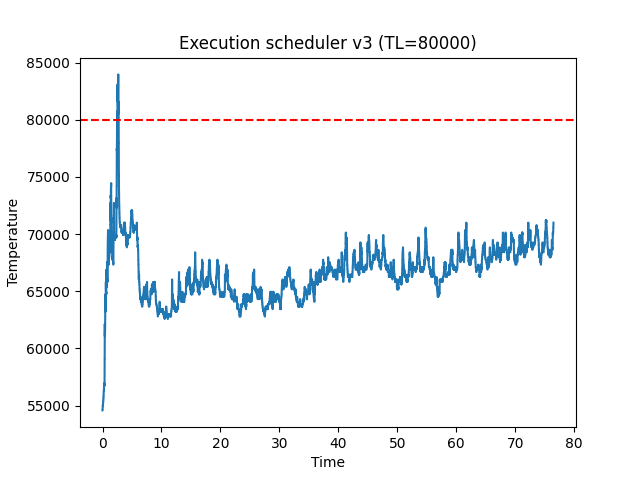
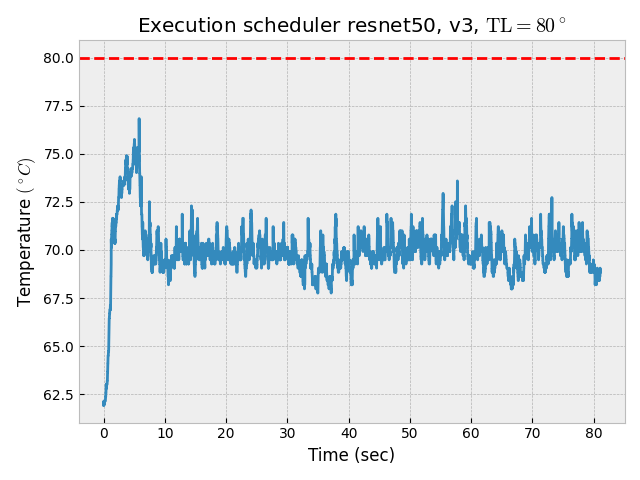
Add more visualizations

diff --git a/stats.py b/stats.py
@@ -48,7 +48,9 @@ for temp_csv in temp_csvs:
     average_temp = df["temp"].mean()
     crosses_threshold = len(df[df["temp"] > int(TL)]) / len(df["temp"]) * 100
     stats[graph][version][TL]["crosses_threshold"] = crosses_threshold
-    temp_df[f"{graph}_v{version}_TL{TL}"] = df["temp"] / 1000
+    df["temp"] /= 1000
+    stats[graph][version][TL]["temps"] = df
+    temp_df[f"{graph}_v{version}_TL{TL}"] = df["temp"]
 
 for time_log in time_logs:
     file_name = time_log.split("/")[1]
@@ -67,6 +69,19 @@ for graph in sorted(stats):
     for version in sorted(stats[graph]):
         for TL in sorted(stats[graph][version]):
             xtick_lables.append(graph)
+            fig = plt.figure()
+            sns.lineplot(data=stats[graph][version][TL]["temps"], x="time", y="temp")
+            if int(TL) == 80000:
+                plt.axhline(80, linestyle="--", color="r")
+            plt.xlabel("Time (sec)")
+            plt.ylabel("Temperature $(^\circ C)$")
+            plt.title(
+                f"Execution scheduler {graph}, v{version}, ${{\\rm TL}} = {map_tl(TL)}$"
+            )
+            plt.show()
+            fig.savefig(
+                f"temp_schedulerv{version.replace('.', '_')}/{graph}_TL{TL}.png"
+            )
             required_columns.append(f"{graph}_v{version}_TL{TL}")
 temp_df = temp_df[required_columns]
 fig = plt.figure(figsize=(12, 8))
